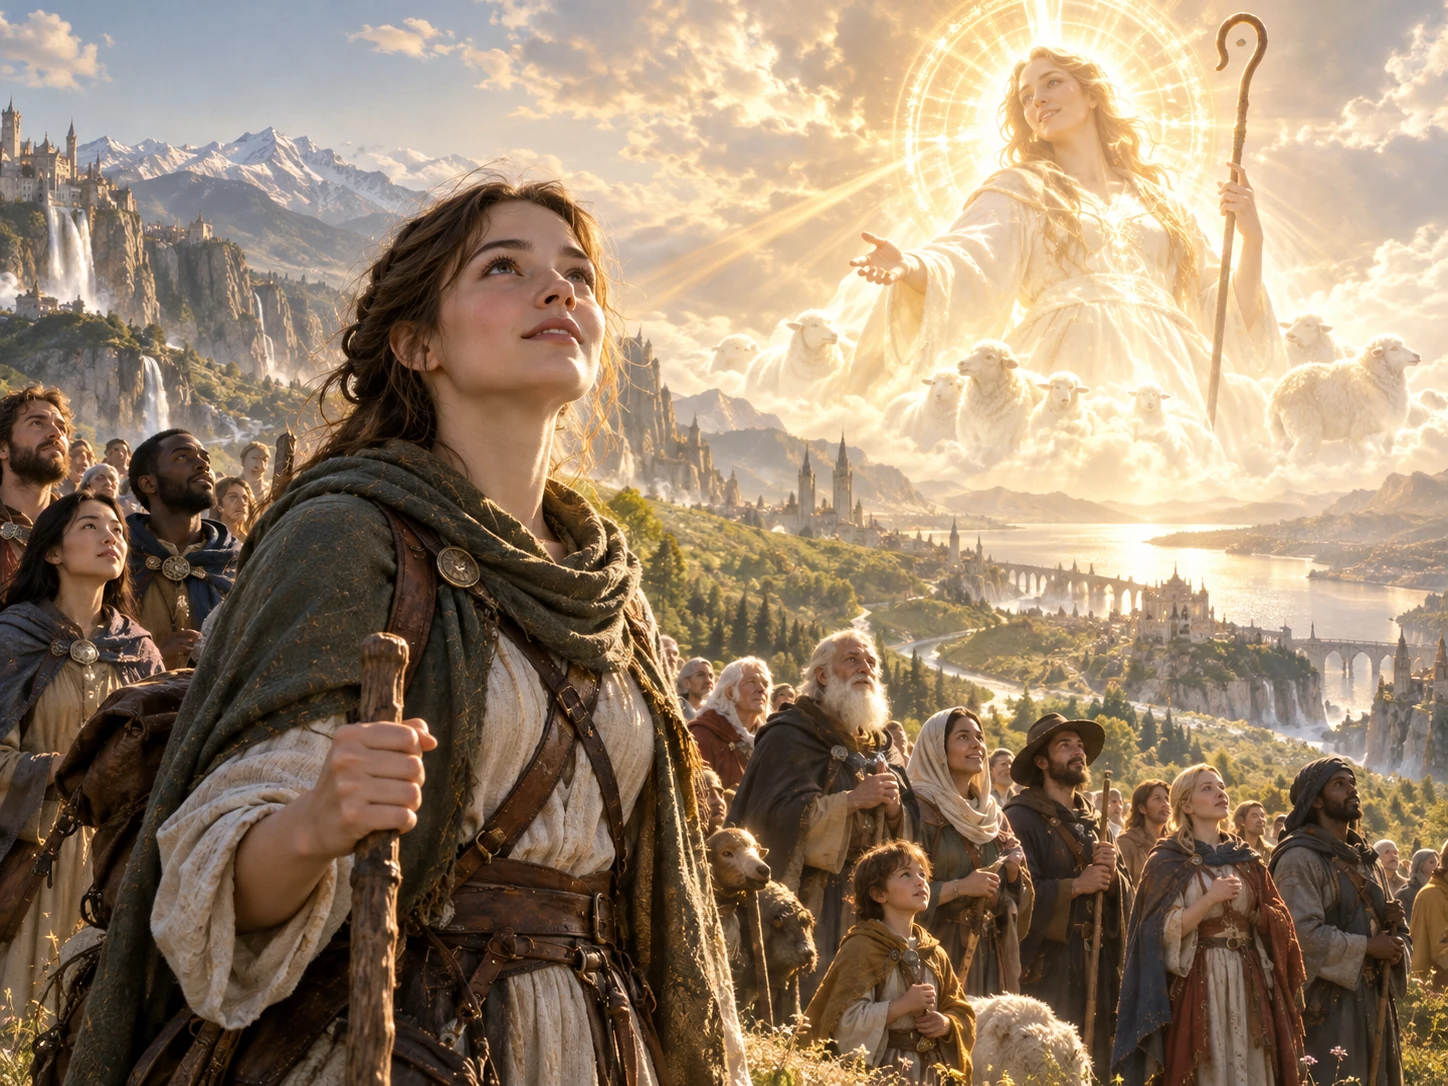
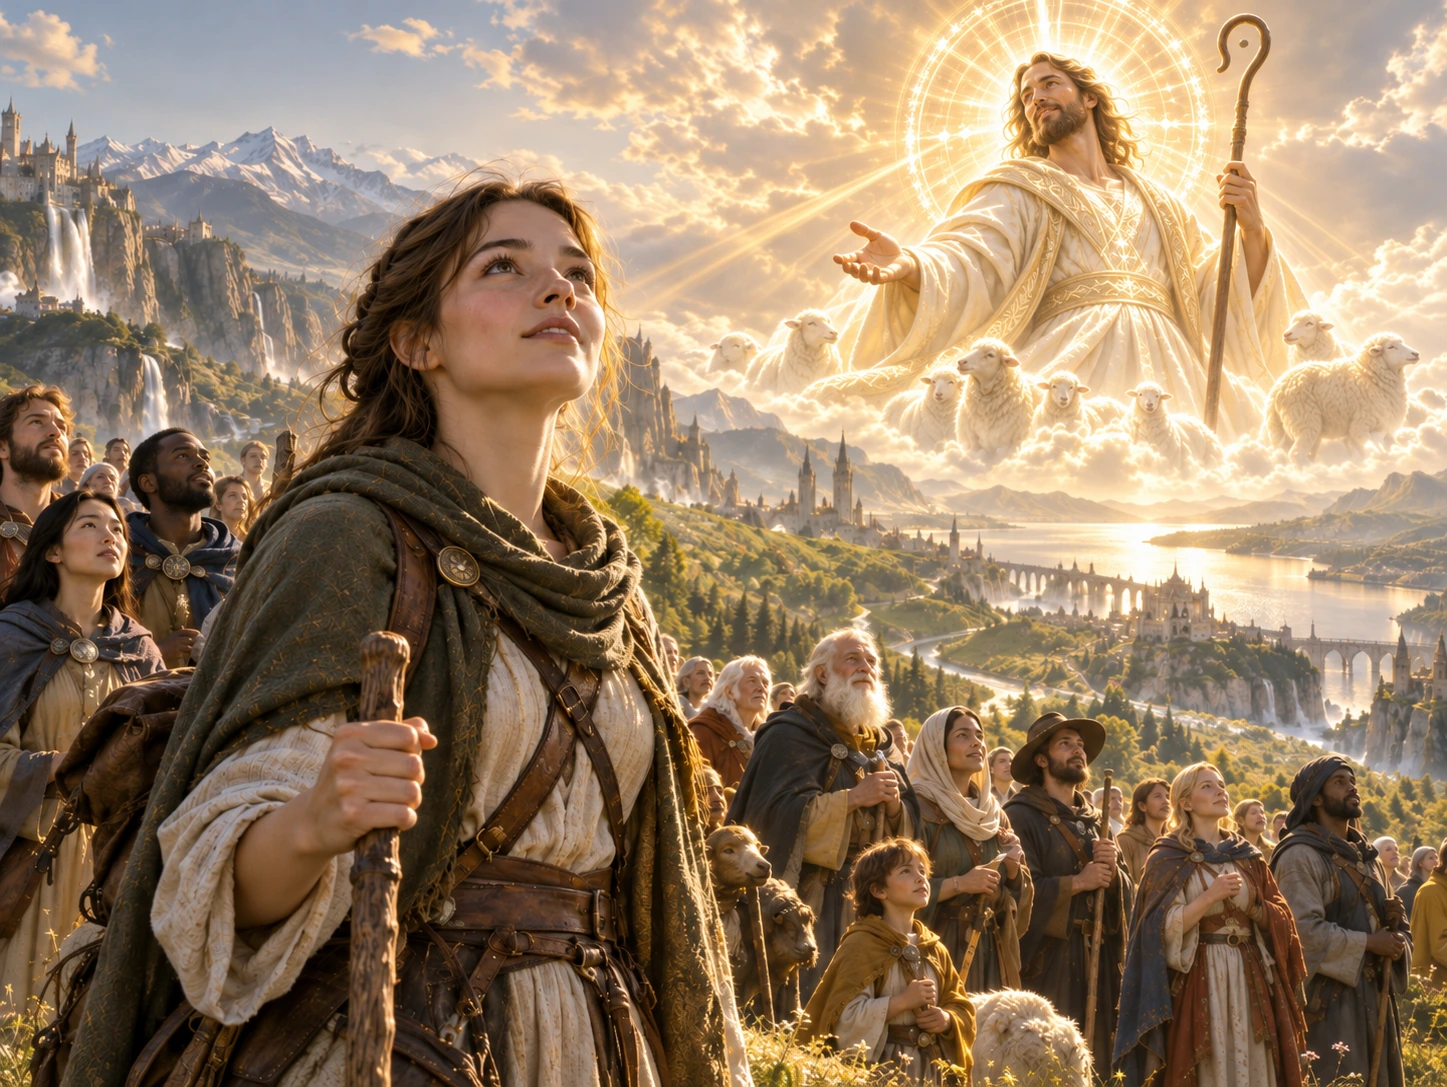
Replace Sceaphierde divine vision with male shepherd and verify live image

diff --git a/religions.html b/religions.html
@@ -26,4 +26,4 @@
 <div id="loreCards" class="lore-grid"></div><p id="loreEmpty" class="lore-empty" hidden>No entries match your search.</p></section>
 <footer class="footer"><span>✦ &nbsp; ONYXIA &nbsp; ✦</span><p>"May knowledge illuminate your path, traveller."</p><small>THE LIVING LOREBOOK · DOCUMENTED LORE OF ONYXIA</small></footer></main></div>
 <dialog id="loreLightbox" class="lore-lightbox"><button type="button" id="closeLightbox" aria-label="Close image">×</button><img alt=""><p></p></dialog>
-<script src="lorebook.js" defer></script></body></html>
+<script src="lorebook.js?v=20261101-sceaphierde" defer></script></body></html>

diff --git a/lorebook.js b/lorebook.js
@@ -141,7 +141,7 @@
     const gate = x.match(/Level Gated\s*-\s*(\d+)/i);
     return gate ? `Level ${gate[1]} gated` : 'No level gate';
   };
-  fetch('lore-pages-data.json').then(r=> { if(!r.ok)throw Error('Archive unavailable (HTTP '+r.status+')');return r.json();}).then(all=>{
+  fetch(chapter==='religions'?'lore-pages-data.json?v=20261101-male':'lore-pages-data.json').then(r=> { if(!r.ok)throw Error('Archive unavailable (HTTP '+r.status+')');return r.json();}).then(all=>{
     const data=all[chapter];if(!data)throw Error('Unknown chapter '+chapter);
     for(const b of data.intro || []){
       if(b.type==='image')continue;
